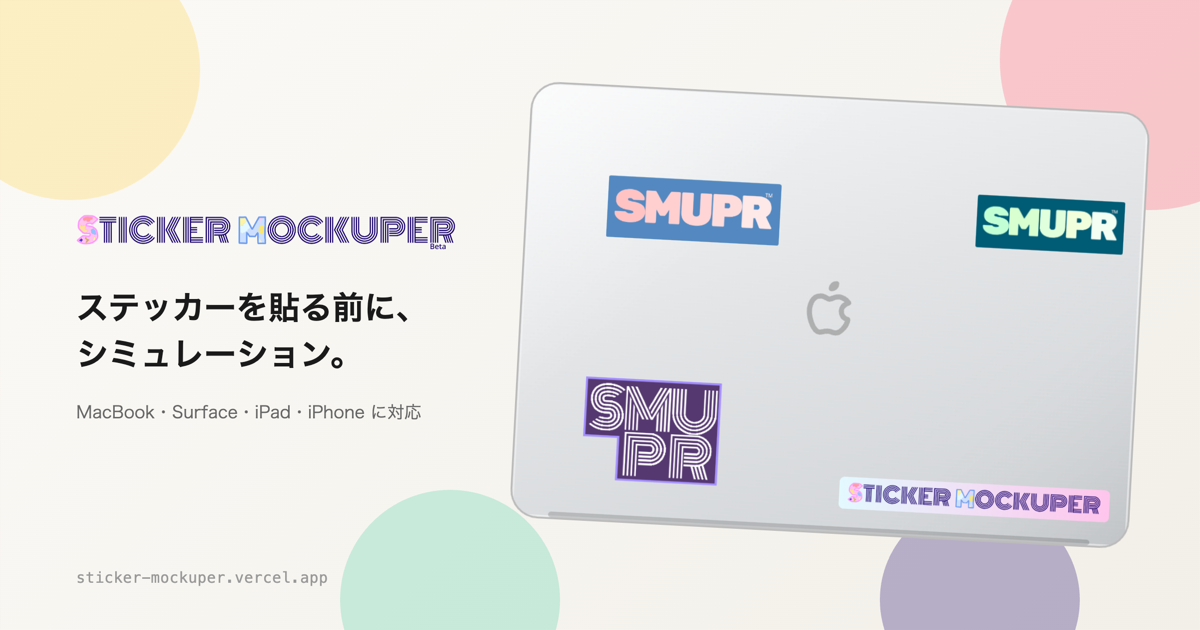
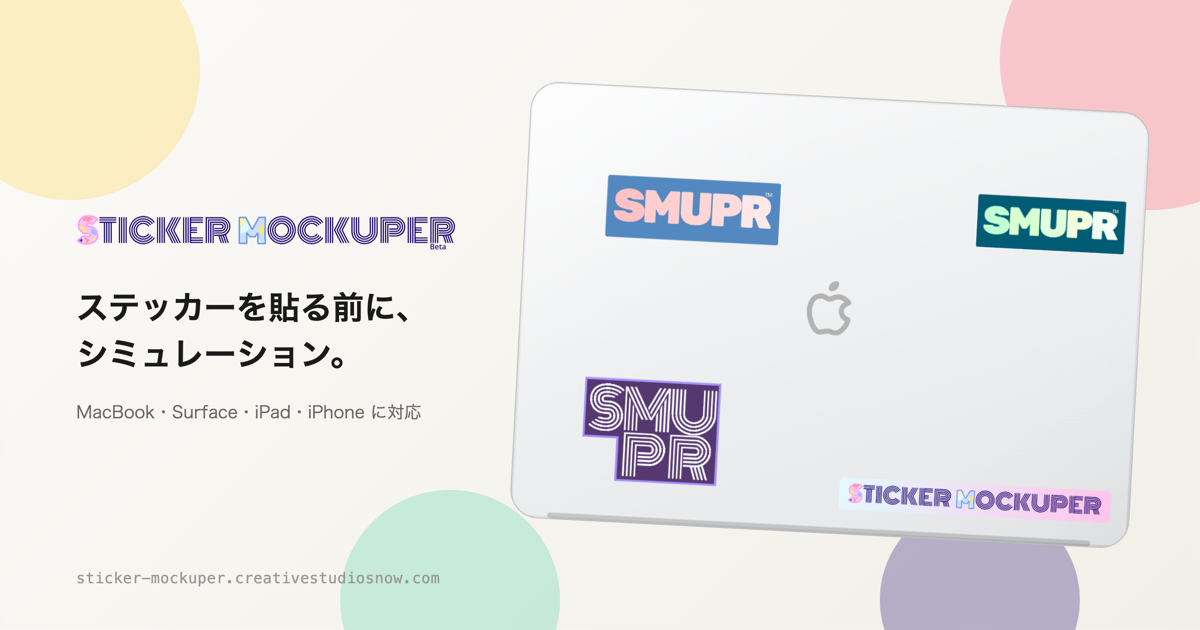
Point OGP/Twitter card URLs at the custom domain
og:url, og:image and twitter:image now reference
sticker-mockuper.creativestudiosnow.com instead of the vercel.app
URL, and the OGP share image's footer URL text is regenerated to
match.

diff --git a/index.html b/index.html
@@ -25,8 +25,8 @@
       property="og:description"
       content="ステッカーを貼る前に、シミュレーション。MacBook・Surface・iPad・iPhoneにステッカーを貼った状態を購入前に確認できます。"
     />
-    <meta property="og:url" content="https://sticker-mockuper.vercel.app/" />
-    <meta property="og:image" content="https://sticker-mockuper.vercel.app/og-image.png" />
+    <meta property="og:url" content="https://sticker-mockuper.creativestudiosnow.com/" />
+    <meta property="og:image" content="https://sticker-mockuper.creativestudiosnow.com/og-image.png" />
     <meta property="og:image:width" content="1200" />
     <meta property="og:image:height" content="630" />
 
@@ -37,7 +37,7 @@
       name="twitter:description"
       content="ステッカーを貼る前に、シミュレーション。MacBook・Surface・iPad・iPhoneにステッカーを貼った状態を購入前に確認できます。"
     />
-    <meta name="twitter:image" content="https://sticker-mockuper.vercel.app/og-image.png" />
+    <meta name="twitter:image" content="https://sticker-mockuper.creativestudiosnow.com/og-image.png" />
   </head>
   <body>
     <div id="root"></div>
